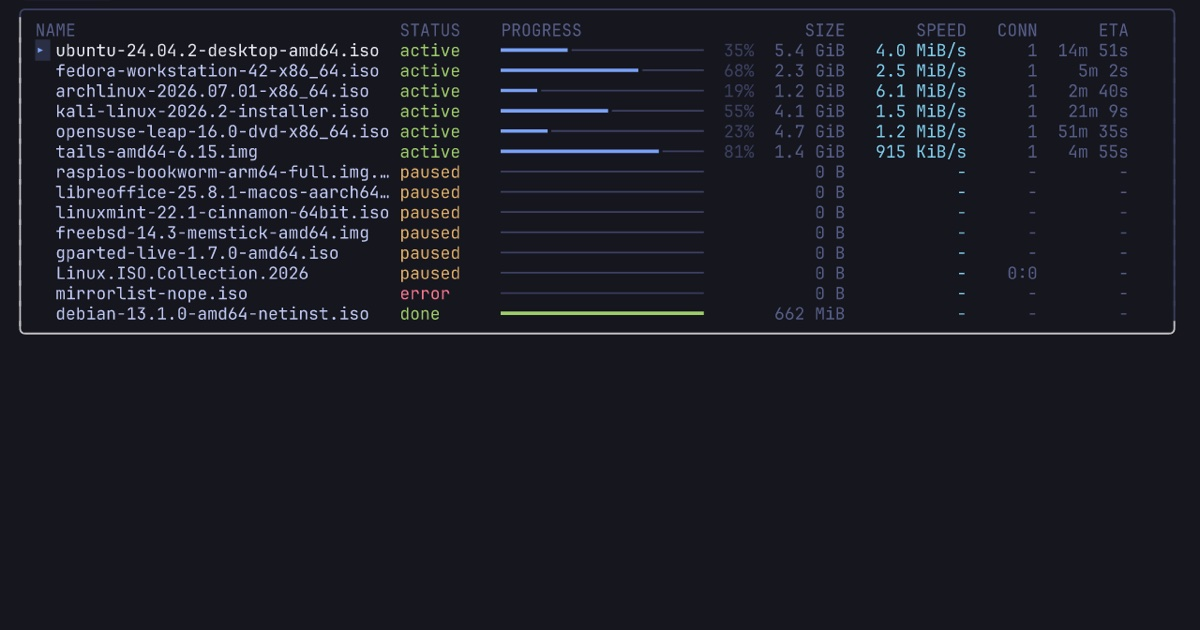
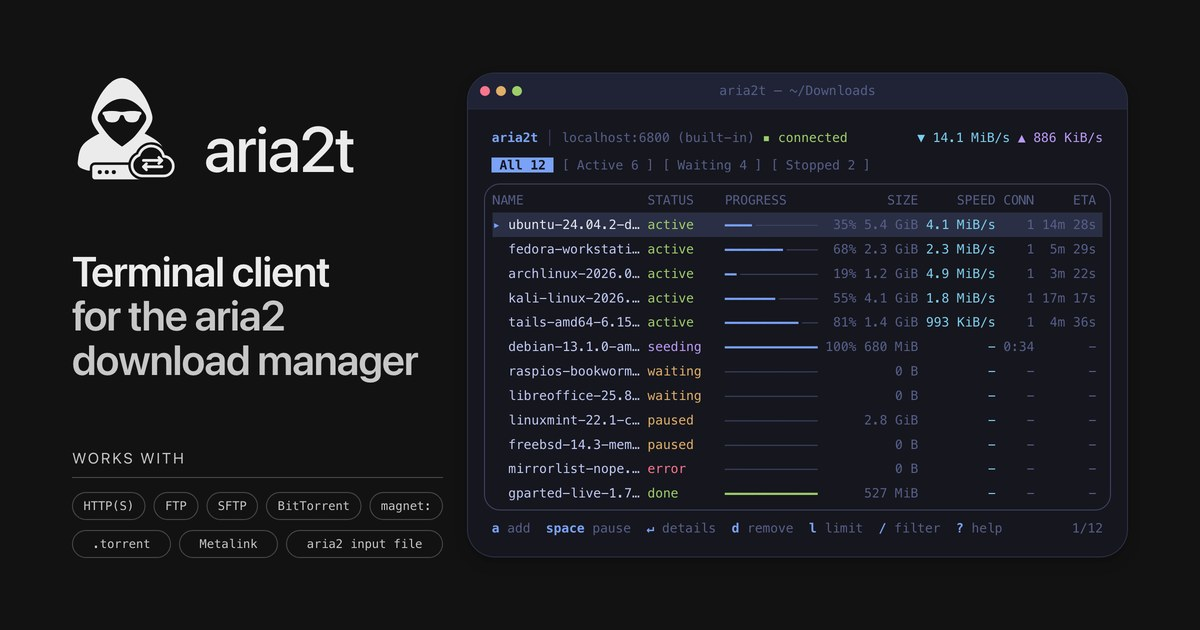
release(0.1.4): aria2t-site 0.1.4
- New cloud-transfer logo: favicon, header mark, logo.svg.
- Rebuilt og-preview banner from the live hero (logo, tagline, works-with, terminal mock).
- Theme-aware TUI mock: follows the light/dark site theme via --tui-* vars.

diff --git a/site/src/components/aria2t-logo.tsx b/site/src/components/aria2t-logo.tsx
@@ -4,20 +4,43 @@ interface Aria2tLogoProps {
   className?: string;
 }
 
-// Download-arrow mark; the same path is inlined in public/favicon.svg — keep them in sync.
+// Cloud-transfer logo; the same composition is inlined in public/logo.svg and
+// public/favicon.svg — regenerate all three together, don't hand-edit.
 export function Aria2tLogo({ className }: Aria2tLogoProps) {
   return (
     <svg
-      viewBox="0 0 24 24"
+      viewBox="295.9 122.9 736.1 736.1"
       xmlns="http://www.w3.org/2000/svg"
       aria-hidden="true"
       fill="currentColor"
       className={cn('shrink-0', className)}
     >
-      <path
-        fillRule="evenodd"
-        d="M12 2.75c.69 0 1.25.56 1.25 1.25v8.19l3.09-3.09a1.25 1.25 0 1 1 1.77 1.77l-5.22 5.22c-.49.49-1.29.49-1.78 0L5.89 10.87a1.25 1.25 0 1 1 1.77-1.77l3.09 3.09V4c0-.69.56-1.25 1.25-1.25ZM4.5 19c0-.69.56-1.25 1.25-1.25h12.5a1.25 1.25 0 1 1 0 2.5H5.75c-.69 0-1.25-.56-1.25-1.25Z"
-      />
+      <defs>
+        <path id="aria2t-logo-b" d="M446,733L803,733A 17 17 0 0 1 820,750L820,812A 17 17 0 0 1 803,829L446,829A 17 17 0 0 1 429,812L429,750A 17 17 0 0 1 446,733Z" />
+        <path id="aria2t-logo-c" d="M404,454L157,454A128,128 0 0 1 113.6,205.6A150,150 0 0 1 405.7,220A117,117 0 0 1 404,454Z" />
+        <mask id="aria2t-logo-f">
+          <rect x="295.9" y="122.9" width="736.1" height="736.1" fill="#fff" />
+          <use href="#aria2t-logo-b" fill="#000" stroke="#000" strokeWidth={32} />
+          <use href="#aria2t-logo-c" transform="translate(674.6 556.5) scale(0.55)" fill="#000" stroke="#000" strokeWidth={90.18} />
+        </mask>
+        <mask id="aria2t-logo-s">
+          <rect x="295.9" y="122.9" width="736.1" height="736.1" fill="#fff" />
+          <use href="#aria2t-logo-c" transform="translate(674.6 556.5) scale(0.55)" fill="#000" stroke="#000" strokeWidth={90.18} />
+        </mask>
+      </defs>
+      <path d="M402.8,770.9C402.1,770.9 397.4,769.8 392.5,768.4C355.4,758.3 341.6,750.3 336,735.3C332.6,726.2 332.6,722.1 335.9,697.5C342.6,648.2 348.5,629.1 364.1,607C380.3,584 416.1,557.5 461.8,534.6C469,531 475,527.8 475,527.6C475,527.4 470.9,521.4 465.8,514.3C432.6,468.1 421.8,441.8 425,415.2C428.5,386.3 450.9,328.8 475,287C521.8,205.9 574.6,161.2 624.5,161.2C674.4,161.2 727.2,205.9 774,287C798.1,328.8 820.5,386.3 824,415.2C827.2,441.8 816.4,468.1 783.2,514.3C778.1,521.4 774,527.4 774,527.6C774,527.8 780,531 787.2,534.6C832.9,557.5 868.7,584 884.9,607C900.5,629.1 906.4,648.2 913.1,697.5C916.4,722.1 916.4,726.2 913,735.3C907.4,750.3 893.6,758.3 856.5,768.4C851.6,769.8 846.9,770.9 846.2,770.9ZM624.5,298.7C602.2,298.7 583,303.1 562.3,313C541.5,322.9 525.4,334.7 506.8,353.6C490.5,370.2 480.4,383.1 471.8,398C464.8,410.3 462.9,427.6 467.4,440.1C473.5,457.6 504.7,503 533.9,537C552.6,558.8 570.8,574.7 608,601.7C618.5,609.3 622.3,612.4 624.5,612.4C626.7,612.4 630.5,609.3 641,601.7C678.2,574.7 696.4,558.8 715.1,537C744.3,503 775.5,457.6 781.6,440.1C786.1,427.6 784.2,410.3 777.2,398C768.6,383.1 758.5,370.2 742.2,353.6C723.6,334.7 707.5,322.9 686.7,313C666,303.1 646.8,298.7 624.5,298.7ZM624.5,406C618.9,406 616.7,406.4 615.2,407.8C614,408.7 611.7,413.8 610,419C603.5,438.8 594.6,448.3 578.5,452.5C571.1,454.4 547.6,454.4 540.8,452.5C524.5,448.1 515.1,437.2 509,416.1C506.8,408.6 506.2,407.5 502.7,405.3C495.5,400.7 494.1,391.6 500,386.6C503.5,383.7 507.8,382.7 526.5,380.5C547,378 585.5,378.9 599,382.1C606.1,383.8 615.5,384.9 624.5,384.9C633.5,384.9 642.9,383.8 650,382.1C663.5,378.9 702,378 722.5,380.5C741.2,382.7 745.5,383.7 749,386.6C754.9,391.6 753.5,400.7 746.3,405.3C742.8,407.5 742.2,408.6 740,416.1C733.9,437.2 724.5,448.1 708.2,452.5C701.4,454.4 677.9,454.4 670.5,452.5C654.4,448.3 645.5,438.8 639,419C637.3,413.8 635,408.7 633.8,407.8C632.3,406.4 630.1,406 624.5,406Z" fillRule="evenodd" mask="url(#aria2t-logo-f)" />
+      <path d="M446,733L803,733A 17 17 0 0 1 820,750L820,812A 17 17 0 0 1 803,829L446,829A 17 17 0 0 1 429,812L429,750A 17 17 0 0 1 446,733ZM465.1,781A 13.4 13.4 0 1 0 491.9,781A 13.4 13.4 0 1 0 465.1,781ZM511.3,781A 13.4 13.4 0 1 0 538.1,781A 13.4 13.4 0 1 0 511.3,781ZM557.5,781A 13.4 13.4 0 1 0 584.3,781A 13.4 13.4 0 1 0 557.5,781ZM694.9,771L773.9,771A 10 10 0 1 1 773.9,791L694.9,791A 10 10 0 1 1 694.9,771Z" fillRule="evenodd" mask="url(#aria2t-logo-s)" />
+      <g
+        transform="translate(674.6 556.5) scale(0.55)"
+        fill="none"
+        stroke="currentColor"
+        strokeWidth={32}
+        strokeLinecap="round"
+        strokeLinejoin="round"
+      >
+        <path d="M404,454L157,454A128,128 0 0 1 113.6,205.6A150,150 0 0 1 405.7,220A117,117 0 0 1 404,454Z" />
+        <path d="M165,268L385,268M349,232L385,268L349,304M385,344L165,344M201,308L165,344L201,380" />
+      </g>
     </svg>
   );
 }

diff --git a/site/src/styles/globals.css b/site/src/styles/globals.css
@@ -163,6 +163,72 @@
 }
 
 @layer base {
+  /* aria2t TUI mock palette — the app's own themes from tui/internal/ui/theme.go,
+   * verbatim: Tokyo Night Day in light mode, Tokyo Night in dark. The mock
+   * follows the site theme the way the real app follows its theme setting.
+   * --tui-frame-border is the terminal chrome border (palette Border at 60%). */
+  :root {
+    --tui-accent: #2e7de9;
+    --tui-bg: #e1e2e7;
+    --tui-surface: #e9eaf0;
+    --tui-fg: #343b58;
+    --tui-fg-bright: #1a1f39;
+    --tui-fg-dim: #8990b3;
+    --tui-fg-faint: #a8aecb;
+    --tui-border: #a8aecb;
+    --tui-border-dim: #c4c8da;
+    --tui-sel: #c4c8da;
+    --tui-green: #587539;
+    --tui-red: #f52a65;
+    --tui-yellow: #8c6c3e;
+    --tui-cyan: #007197;
+    --tui-magenta: #9854f1;
+    --tui-frame-border: rgb(168 174 203 / 0.6);
+  }
+
+  [data-theme='dark'],
+  :root.dark {
+    --tui-accent: #7aa2f7;
+    --tui-bg: #16161e;
+    --tui-surface: #1f2335;
+    --tui-fg: #c0caf5;
+    --tui-fg-bright: #e6e9f2;
+    --tui-fg-dim: #565f89;
+    --tui-fg-faint: #3b4261;
+    --tui-border: #3b4261;
+    --tui-border-dim: #24283b;
+    --tui-sel: #2a2f45;
+    --tui-green: #9ece6a;
+    --tui-red: #f7768e;
+    --tui-yellow: #e0af68;
+    --tui-cyan: #7dcfee;
+    --tui-magenta: #bb9af7;
+    --tui-frame-border: rgb(59 66 97 / 0.6);
+  }
+
+  @media (prefers-color-scheme: dark) {
+    :root:not([data-theme='light']) {
+      --tui-accent: #7aa2f7;
+      --tui-bg: #16161e;
+      --tui-surface: #1f2335;
+      --tui-fg: #c0caf5;
+      --tui-fg-bright: #e6e9f2;
+      --tui-fg-dim: #565f89;
+      --tui-fg-faint: #3b4261;
+      --tui-border: #3b4261;
+      --tui-border-dim: #24283b;
+      --tui-sel: #2a2f45;
+      --tui-green: #9ece6a;
+      --tui-red: #f7768e;
+      --tui-yellow: #e0af68;
+      --tui-cyan: #7dcfee;
+      --tui-magenta: #bb9af7;
+      --tui-frame-border: rgb(59 66 97 / 0.6);
+    }
+  }
+}
+
+@layer base {
   /* Accent overrides — applied when html[data-accent] is set.
    * Full M3 source-color sweep: primary + secondary + tertiary palettes +
    * surface-tint on elevated containers. Status colors (success/warning/error)

diff --git a/site/src/components/terminal-mock.tsx b/site/src/components/terminal-mock.tsx
@@ -8,22 +8,23 @@ interface TerminalMockProps {
 }
 
 // Fake terminal window chrome framing the live list mock. Colors are the
-// app's own Tokyo Night palette, not the site theme — the terminal looks the
-// same in light and dark mode, like a real screenshot would.
+// app's own palettes (--tui-* vars in globals.css): Tokyo Night Day in light
+// mode, Tokyo Night in dark — the mock follows the site theme the way the
+// real app follows its theme setting.
 export function TerminalMock({ title = 'aria2t — ~/Downloads', children, className }: TerminalMockProps) {
   return (
     <div
       dir="ltr"
       className={cn(
-        'pointer-events-auto w-full overflow-hidden rounded-lg border border-[#3b4261]/60 bg-[#16161e] shadow-e4',
+        'pointer-events-auto w-full overflow-hidden rounded-lg border border-[var(--tui-frame-border)] bg-[var(--tui-bg)] shadow-e4',
         className,
       )}
     >
-      <div className="relative flex h-9 shrink-0 items-center gap-1.5 border-b border-[#24283b] bg-[#1f2335] px-3">
-        <span className="h-2.5 w-2.5 rounded-full bg-[#f7768e]" aria-hidden />
-        <span className="h-2.5 w-2.5 rounded-full bg-[#e0af68]" aria-hidden />
-        <span className="h-2.5 w-2.5 rounded-full bg-[#9ece6a]" aria-hidden />
-        <span className="pointer-events-none absolute inset-x-12 text-center font-mono text-[11px] text-[#565f89]">
+      <div className="relative flex h-9 shrink-0 items-center gap-1.5 border-b border-[var(--tui-border-dim)] bg-[var(--tui-surface)] px-3">
+        <span className="h-2.5 w-2.5 rounded-full bg-[var(--tui-red)]" aria-hidden />
+        <span className="h-2.5 w-2.5 rounded-full bg-[var(--tui-yellow)]" aria-hidden />
+        <span className="h-2.5 w-2.5 rounded-full bg-[var(--tui-green)]" aria-hidden />
+        <span className="pointer-events-none absolute inset-x-12 text-center font-mono text-[11px] text-[var(--tui-fg-dim)]">
           <span className="truncate">{title}</span>
         </span>
       </div>

diff --git a/site/src/components/list-mock.tsx b/site/src/components/list-mock.tsx
@@ -1,21 +1,23 @@
 import { useEffect, useState } from 'react';
 import { cn } from '@/lib/utils';
 
-// Tokyo Night — the app's own palette (tui/internal/ui/theme.go), verbatim.
+// The app's own palettes (tui/internal/ui/theme.go): Tokyo Night Day in light
+// mode, Tokyo Night in dark. Values live as --tui-* vars in globals.css so the
+// mock switches with the site theme in pure CSS (no hydration dependency).
 const C = {
-  accent: '#7aa2f7',
-  bg: '#16161e',
-  fg: '#c0caf5',
-  bright: '#e6e9f2',
-  dim: '#565f89',
-  faint: '#3b4261',
-  border: '#3b4261',
-  sel: '#2a2f45',
-  green: '#9ece6a',
-  yellow: '#e0af68',
-  red: '#f7768e',
-  cyan: '#7dcfee',
-  magenta: '#bb9af7',
+  accent: 'var(--tui-accent)',
+  bg: 'var(--tui-bg)',
+  fg: 'var(--tui-fg)',
+  bright: 'var(--tui-fg-bright)',
+  dim: 'var(--tui-fg-dim)',
+  faint: 'var(--tui-fg-faint)',
+  border: 'var(--tui-border)',
+  sel: 'var(--tui-sel)',
+  green: 'var(--tui-green)',
+  yellow: 'var(--tui-yellow)',
+  red: 'var(--tui-red)',
+  cyan: 'var(--tui-cyan)',
+  magenta: 'var(--tui-magenta)',
 } as const;
 
 // Character grid mirroring the real list screen (tui/internal/ui/list.go):

diff --git a/README.ru.md b/README.ru.md
@@ -1,5 +1,12 @@
 [English](./README.md) · [Русский](./README.ru.md) · [简体中文](./README.zh-CN.md) · [Español](./README.es.md) · [Deutsch](./README.de.md) · [日本語](./README.ja.md)
 
+<p align="center">
+  <picture>
+    <source media="(prefers-color-scheme: dark)" srcset="./tui/docs/media/logo-dark.svg">
+    <img alt="" src="./tui/docs/media/logo-light.svg" width="128">
+  </picture>
+</p>
+
 <h1 align="center">aria2t</h1>
 
 <p align="center"><strong>Консольный клиент для менеджера загрузок aria2</strong></p>
@@ -14,7 +21,10 @@
 </p>
 
 <p align="center">
-  <img alt="Демо aria2t" src="./tui/docs/media/demo.gif" width="720">
+  <picture>
+    <source media="(prefers-color-scheme: dark)" srcset="./tui/docs/media/demo.gif">
+    <img alt="Демо aria2t" src="./tui/docs/media/demo-light.gif" width="720">
+  </picture>
 </p>
 
 > [!IMPORTANT]

diff --git a/README.ja.md b/README.ja.md
@@ -1,5 +1,12 @@
 [English](./README.md) · [Русский](./README.ru.md) · [简体中文](./README.zh-CN.md) · [Español](./README.es.md) · [Deutsch](./README.de.md) · [日本語](./README.ja.md)
 
+<p align="center">
+  <picture>
+    <source media="(prefers-color-scheme: dark)" srcset="./tui/docs/media/logo-dark.svg">
+    <img alt="" src="./tui/docs/media/logo-light.svg" width="128">
+  </picture>
+</p>
+
 <h1 align="center">aria2t</h1>
 
 <p align="center"><strong>ダウンロードマネージャー aria2 のターミナルクライアント</strong></p>
@@ -14,7 +21,10 @@
 </p>
 
 <p align="center">
-  <img alt="aria2t デモ" src="./tui/docs/media/demo.gif" width="720">
+  <picture>
+    <source media="(prefers-color-scheme: dark)" srcset="./tui/docs/media/demo.gif">
+    <img alt="aria2t デモ" src="./tui/docs/media/demo-light.gif" width="720">
+  </picture>
 </p>
 
 > [!IMPORTANT]

diff --git a/README.es.md b/README.es.md
@@ -1,5 +1,12 @@
 [English](./README.md) · [Русский](./README.ru.md) · [简体中文](./README.zh-CN.md) · [Español](./README.es.md) · [Deutsch](./README.de.md) · [日本語](./README.ja.md)
 
+<p align="center">
+  <picture>
+    <source media="(prefers-color-scheme: dark)" srcset="./tui/docs/media/logo-dark.svg">
+    <img alt="" src="./tui/docs/media/logo-light.svg" width="128">
+  </picture>
+</p>
+
 <h1 align="center">aria2t</h1>
 
 <p align="center"><strong>Cliente de terminal para el gestor de descargas aria2</strong></p>
@@ -14,7 +21,10 @@
 </p>
 
 <p align="center">
-  <img alt="Demo de aria2t" src="./tui/docs/media/demo.gif" width="720">
+  <picture>
+    <source media="(prefers-color-scheme: dark)" srcset="./tui/docs/media/demo.gif">
+    <img alt="Demo de aria2t" src="./tui/docs/media/demo-light.gif" width="720">
+  </picture>
 </p>
 
 > [!IMPORTANT]

diff --git a/README.de.md b/README.de.md
@@ -1,5 +1,12 @@
 [English](./README.md) · [Русский](./README.ru.md) · [简体中文](./README.zh-CN.md) · [Español](./README.es.md) · [Deutsch](./README.de.md) · [日本語](./README.ja.md)
 
+<p align="center">
+  <picture>
+    <source media="(prefers-color-scheme: dark)" srcset="./tui/docs/media/logo-dark.svg">
+    <img alt="" src="./tui/docs/media/logo-light.svg" width="128">
+  </picture>
+</p>
+
 <h1 align="center">aria2t</h1>
 
 <p align="center"><strong>Terminal-Client für den Download-Manager aria2</strong></p>
@@ -14,7 +21,10 @@
 </p>
 
 <p align="center">
-  <img alt="aria2t-Demo" src="./tui/docs/media/demo.gif" width="720">
+  <picture>
+    <source media="(prefers-color-scheme: dark)" srcset="./tui/docs/media/demo.gif">
+    <img alt="aria2t-Demo" src="./tui/docs/media/demo-light.gif" width="720">
+  </picture>
 </p>
 
 > [!IMPORTANT]

diff --git a/README.md b/README.md
@@ -1,5 +1,12 @@
 [English](./README.md) · [Русский](./README.ru.md) · [简体中文](./README.zh-CN.md) · [Español](./README.es.md) · [Deutsch](./README.de.md) · [日本語](./README.ja.md)
 
+<p align="center">
+  <picture>
+    <source media="(prefers-color-scheme: dark)" srcset="./tui/docs/media/logo-dark.svg">
+    <img alt="" src="./tui/docs/media/logo-light.svg" width="128">
+  </picture>
+</p>
+
 <h1 align="center">aria2t</h1>
 
 <p align="center"><strong>Terminal client for the aria2 download manager</strong></p>
@@ -14,7 +21,10 @@
 </p>
 
 <p align="center">
-  <img alt="aria2t demo" src="./tui/docs/media/demo.gif" width="720">
+  <picture>
+    <source media="(prefers-color-scheme: dark)" srcset="./tui/docs/media/demo.gif">
+    <img alt="aria2t demo" src="./tui/docs/media/demo-light.gif" width="720">
+  </picture>
 </p>
 
 > [!IMPORTANT]

diff --git a/README.zh-CN.md b/README.zh-CN.md
@@ -1,5 +1,12 @@
 [English](./README.md) · [Русский](./README.ru.md) · [简体中文](./README.zh-CN.md) · [Español](./README.es.md) · [Deutsch](./README.de.md) · [日本語](./README.ja.md)
 
+<p align="center">
+  <picture>
+    <source media="(prefers-color-scheme: dark)" srcset="./tui/docs/media/logo-dark.svg">
+    <img alt="" src="./tui/docs/media/logo-light.svg" width="128">
+  </picture>
+</p>
+
 <h1 align="center">aria2t</h1>
 
 <p align="center"><strong>aria2 下载管理器的终端客户端</strong></p>
@@ -14,7 +21,10 @@
 </p>
 
 <p align="center">
-  <img alt="aria2t 演示" src="./tui/docs/media/demo.gif" width="720">
+  <picture>
+    <source media="(prefers-color-scheme: dark)" srcset="./tui/docs/media/demo.gif">
+    <img alt="aria2t 演示" src="./tui/docs/media/demo-light.gif" width="720">
+  </picture>
 </p>
 
 > [!IMPORTANT]
